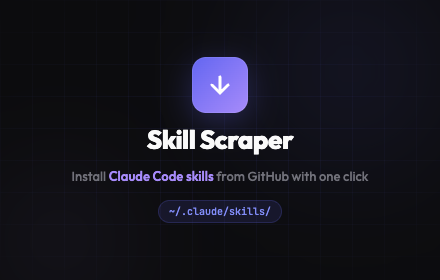
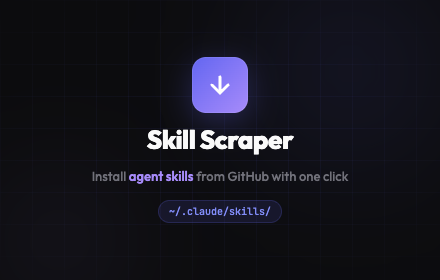
Rebrand as agent-agnostic — not Claude Code exclusive
The skills CLI works with any agent supporting the SKILL.md
convention, not just Claude Code. Updated all copy accordingly.

Changed region(s): [[0.1477, 0.6, 0.8568, 0.6571]]

diff --git a/graphics/marquee-1400x560.html b/graphics/marquee-1400x560.html
@@ -204,7 +204,7 @@
       </div>
       <div class="logo-text">Skill Scraper</div>
     </div>
-    <h1>Install <span class="accent">Claude Code<br>skills</span> from GitHub</h1>
+    <h1>Install <span class="accent">agent<br>skills</span> from GitHub</h1>
     <div class="subtitle">Browse any repo with SKILL.md files, pick the skills you want, and install them to ~/.claude/skills/ with a single command.</div>
     <div class="steps">
       <div class="step"><div class="step-num">1</div><div class="step-text">Browse GitHub</div></div>

diff --git a/graphics/promo-small-440x280.html b/graphics/promo-small-440x280.html
@@ -111,7 +111,7 @@
       </svg>
     </div>
     <div class="title">Skill Scraper</div>
-    <div class="tagline">Install <em>Claude Code skills</em> from GitHub with one click</div>
+    <div class="tagline">Install <em>agent skills</em> from GitHub with one click</div>
     <div class="badge">~/.claude/skills/</div>
   </div>
 </body>

diff --git a/STORE_LISTING.md b/STORE_LISTING.md
@@ -3,13 +3,13 @@
 ## Store Listing
 
 ### Name
-Skill Scraper — Claude Code Skill Installer
+Skill Scraper — Agent Skill Installer
 
 ### Summary (132 char max)
-Detect and install Claude Code skills from GitHub repos with one click. Generates npx skills add commands for easy installation.
+Detect and install agent skills from GitHub repos with one click. Generates npx skills add commands for easy installation.
 
 ### Description
-Skill Scraper makes it effortless to discover and install Claude Code skills directly from GitHub.
+Skill Scraper makes it effortless to discover and install agent skills directly from GitHub.
 
 HOW IT WORKS
 1. Browse any GitHub repo containing SKILL.md files
@@ -30,8 +30,8 @@ FEATURES
 • Dark themed popup UI
 • Zero dependencies, lightweight
 
-WHAT ARE CLAUDE CODE SKILLS?
-Skills are markdown instruction files that extend Claude Code's capabilities. Each skill is a SKILL.md file installed to ~/.claude/skills/ that teaches Claude Code new behaviors, workflows, and domain expertise.
+WHAT ARE AGENT SKILLS?
+Skills are markdown instruction files that extend AI coding agents' capabilities. Each skill is a SKILL.md file that teaches agents new behaviors, workflows, and domain expertise. They work with Claude Code, Cursor, Windsurf, and other agents that support the skills convention.
 
 PRIVACY
 This extension only activates on github.com pages. It reads GitHub page URLs and fetches public file contents from the GitHub API. No data is collected, stored, or sent to any third party.
@@ -47,7 +47,7 @@ English
 ## Privacy
 
 ### Single purpose description
-Detects Claude Code skill files (SKILL.md) on GitHub pages and generates npx skills add commands for clipboard install.
+Detects agent skill files (SKILL.md) on GitHub pages and generates npx skills add commands for clipboard install.
 
 ### Permission justifications
 

diff --git a/README.md b/README.md
@@ -5,7 +5,7 @@
 <h1 align="center">Skill Scraper</h1>
 
 <p align="center">
-  <strong>Install Claude Code skills from GitHub with one click</strong><br>
+  <strong>Install agent skills from GitHub with one click</strong><br>
   A Chrome extension that detects SKILL.md files on GitHub and generates <code>npx skills add</code> commands to install them.
 </p>
 
@@ -63,26 +63,16 @@ Coming soon.
 
 1. Clone this repo:
    ```bash
-   git clone https://github.com/anthropics/skill-scraper.git
+   git clone https://github.com/oronbz/skill-scraper.git
    ```
 2. Open `chrome://extensions` in Chrome
 3. Enable **Developer mode** (top right)
 4. Click **Load unpacked** and select the cloned directory
 5. Navigate to a GitHub repo with SKILL.md files and click the extension icon
 
-## What Are Claude Code Skills?
+## What Are Agent Skills?
 
-Skills are markdown instruction files that extend [Claude Code](https://docs.anthropic.com/en/docs/claude-code)'s capabilities. Each skill is a `SKILL.md` file installed to `~/.claude/skills/` that teaches Claude Code new behaviors, workflows, and domain expertise.
-
-```
-~/.claude/skills/
-├── frontend-design/
-│   └── SKILL.md
-├── claude-api/
-│   └── SKILL.md
-└── snapshot-testing/
-    └── SKILL.md
-```
+Skills are markdown instruction files that extend AI coding agents' capabilities. Each skill is a `SKILL.md` file that teaches agents new behaviors, workflows, and domain expertise. They work with Claude Code, Cursor, Windsurf, and other agents that support the [skills convention](https://github.com/vercel-labs/skills).
 
 ## Development
 
